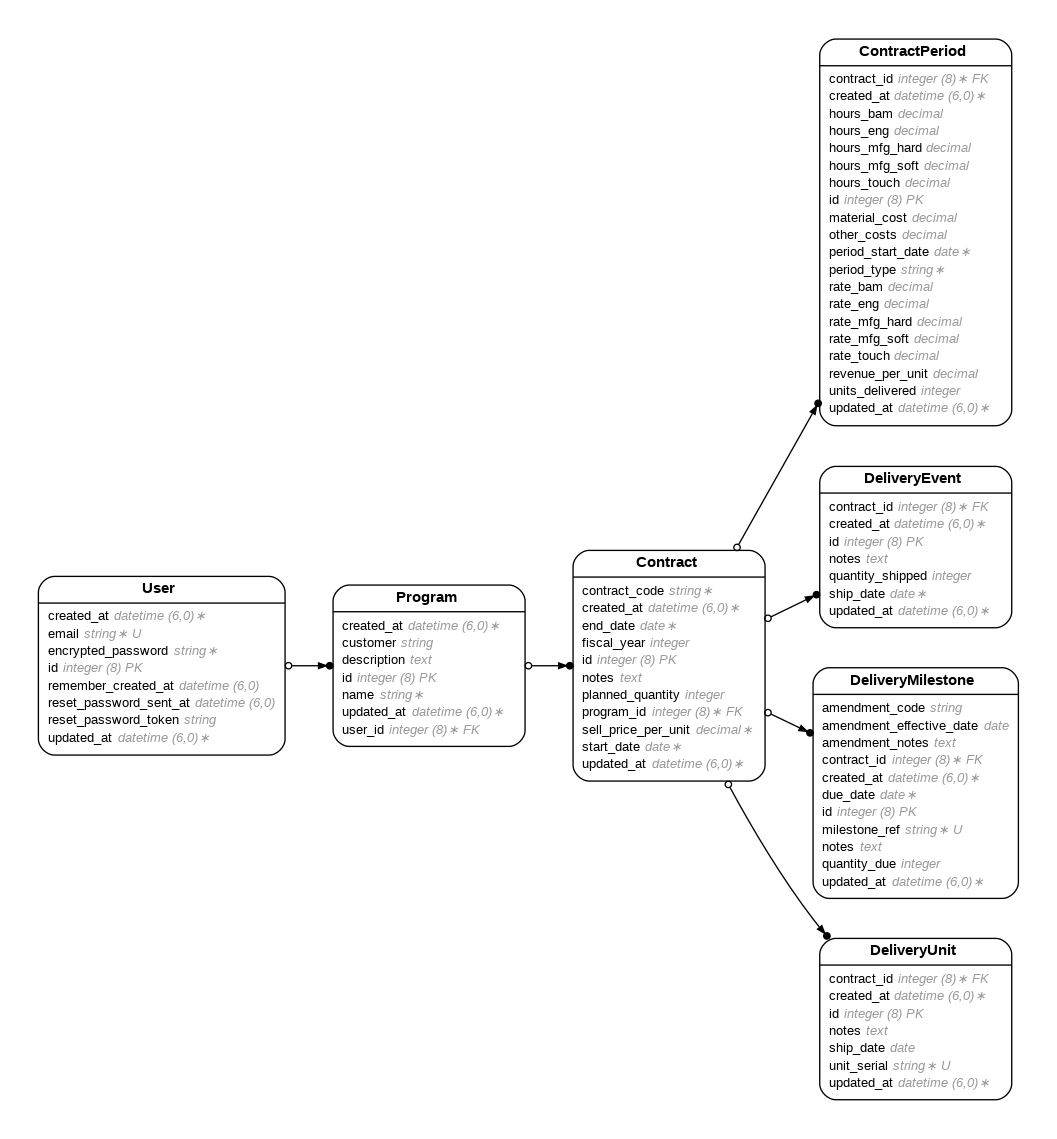
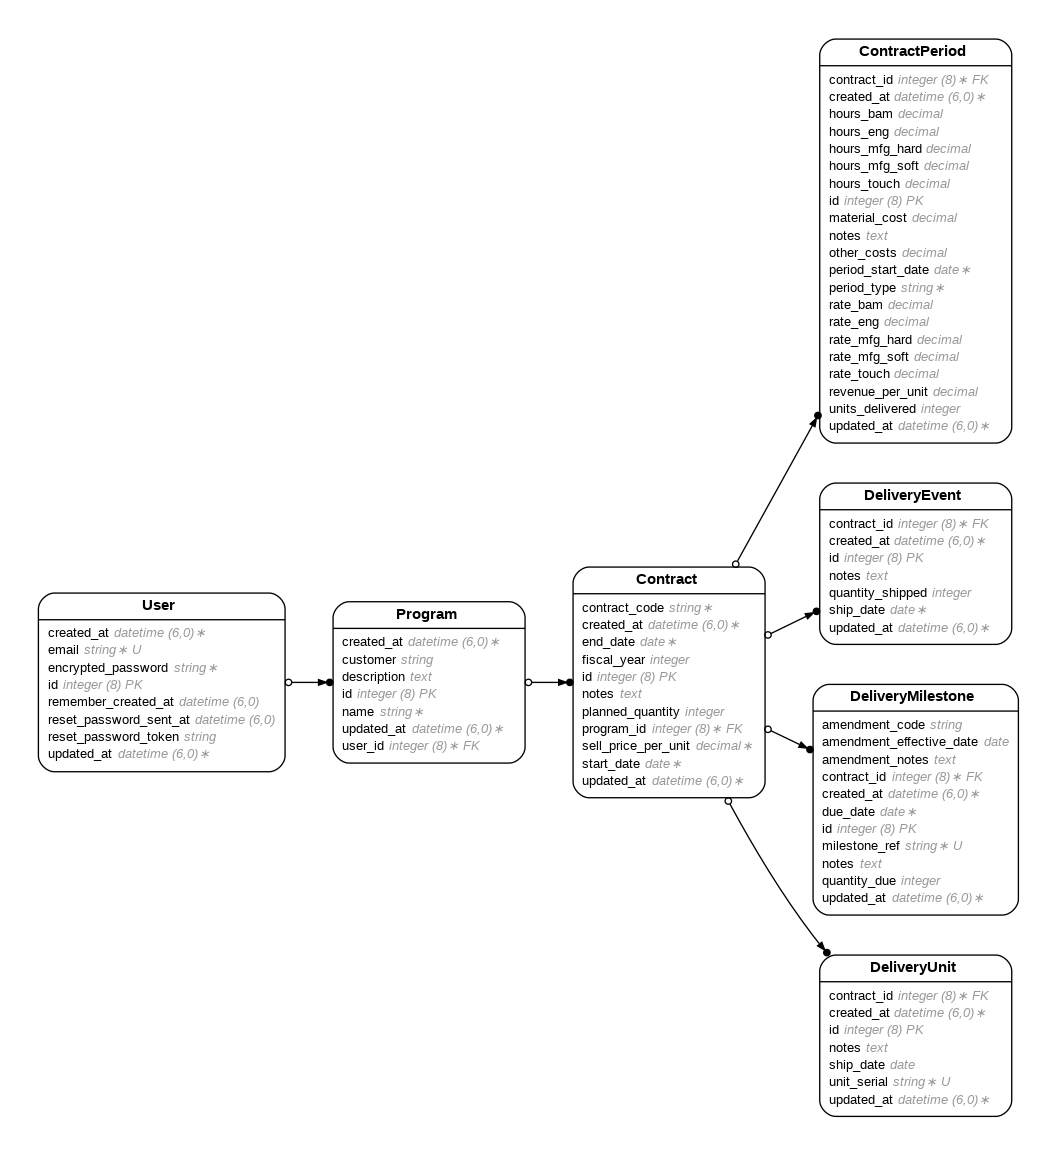
fixed routing on delivery units

diff --git a/app/controllers/delivery_units_controller.rb b/app/controllers/delivery_units_controller.rb
@@ -1,0 +1,63 @@
+class DeliveryUnitsController < ApplicationController
+  before_action :authenticate_user!
+
+  before_action :set_contract, only: %i[index new create]
+  before_action :set_delivery_unit, only: %i[show edit update destroy]
+
+  def index
+    @units = @contract.delivery_units.order(:ship_date, :unit_serial)
+  end
+
+  def show
+  end
+
+  def new
+    @delivery_unit = @contract.delivery_units.build
+  end
+
+  def create
+    @delivery_unit = @contract.delivery_units.build(delivery_unit_params)
+
+    if @delivery_unit.save
+      redirect_to contract_path(@contract), notice: "Delivered unit added."
+    else
+      render :new, status: :unprocessable_entity
+    end
+  end
+
+  def edit
+  end
+
+  def update
+    if @delivery_unit.update(delivery_unit_params)
+      redirect_to contract_path(@contract), notice: "Delivered unit updated."
+    else
+      render :edit, status: :unprocessable_entity
+    end
+  end
+
+  def destroy
+    @delivery_unit.destroy
+    redirect_to contract_path(@contract), notice: "Delivered unit deleted."
+  end
+
+  private
+
+  def set_contract
+    @contract = Contract.joins(:program)
+      .where(programs: { user_id: current_user.id })
+      .find(params[:contract_id])
+  end
+
+  def set_delivery_unit
+    @delivery_unit = DeliveryUnit.joins(contract: :program)
+      .where(programs: { user_id: current_user.id })
+      .find(params[:id])
+
+    @contract = @delivery_unit.contract
+  end
+
+  def delivery_unit_params
+    params.require(:delivery_unit).permit(:unit_serial, :ship_date, :notes)
+  end
+end

diff --git a/db/schema.rb b/db/schema.rb
@@ -10,7 +10,7 @@
 #
 # It's strongly recommended that you check this file into your version control system.
 
-ActiveRecord::Schema[8.0].define(version: 2025_12_12_185822) do
+ActiveRecord::Schema[8.0].define(version: 2025_12_12_223433) do
   # These are extensions that must be enabled in order to support this database
   enable_extension "pg_catalog.plpgsql"
 
@@ -34,6 +34,7 @@ ActiveRecord::Schema[8.0].define(version: 2025_12_12_185822) do
     t.decimal "other_costs"
     t.datetime "created_at", null: false
     t.datetime "updated_at", null: false
+    t.text "notes"
     t.index ["contract_id", "period_start_date", "period_type"], name: "idx_cp_contract_date_type", unique: true
     t.index ["contract_id"], name: "index_contract_periods_on_contract_id"
   end

diff --git a/app/controllers/contract_periods_controller.rb b/app/controllers/contract_periods_controller.rb
@@ -63,4 +63,13 @@ class ContractPeriodsController < ApplicationController
       :other_costs
     )
   end
+  def contract_period_params
+  params.require(:contract_period).permit(
+    :period_start_date, :period_type,
+    :hours_bam, :hours_eng, :hours_mfg_soft, :hours_mfg_hard, :hours_touch,
+    :rate_bam, :rate_eng, :rate_mfg_soft, :rate_mfg_hard, :rate_touch,
+    :material_cost, :other_costs,
+    :notes
+  )
+end
 end

diff --git a/app/models/contract_period.rb b/app/models/contract_period.rb
@@ -9,6 +9,7 @@
 #  hours_mfg_soft    :decimal(, )
 #  hours_touch       :decimal(, )
 #  material_cost     :decimal(, )
+#  notes             :text
 #  other_costs       :decimal(, )
 #  period_start_date :date
 #  period_type       :string

diff --git a/db/migrate/20251212223433_add_notes_to_contract_periods.rb b/db/migrate/20251212223433_add_notes_to_contract_periods.rb
@@ -1,0 +1,5 @@
+class AddNotesToContractPeriods < ActiveRecord::Migration[8.0]
+  def change
+    add_column :contract_periods, :notes, :text
+  end
+end
